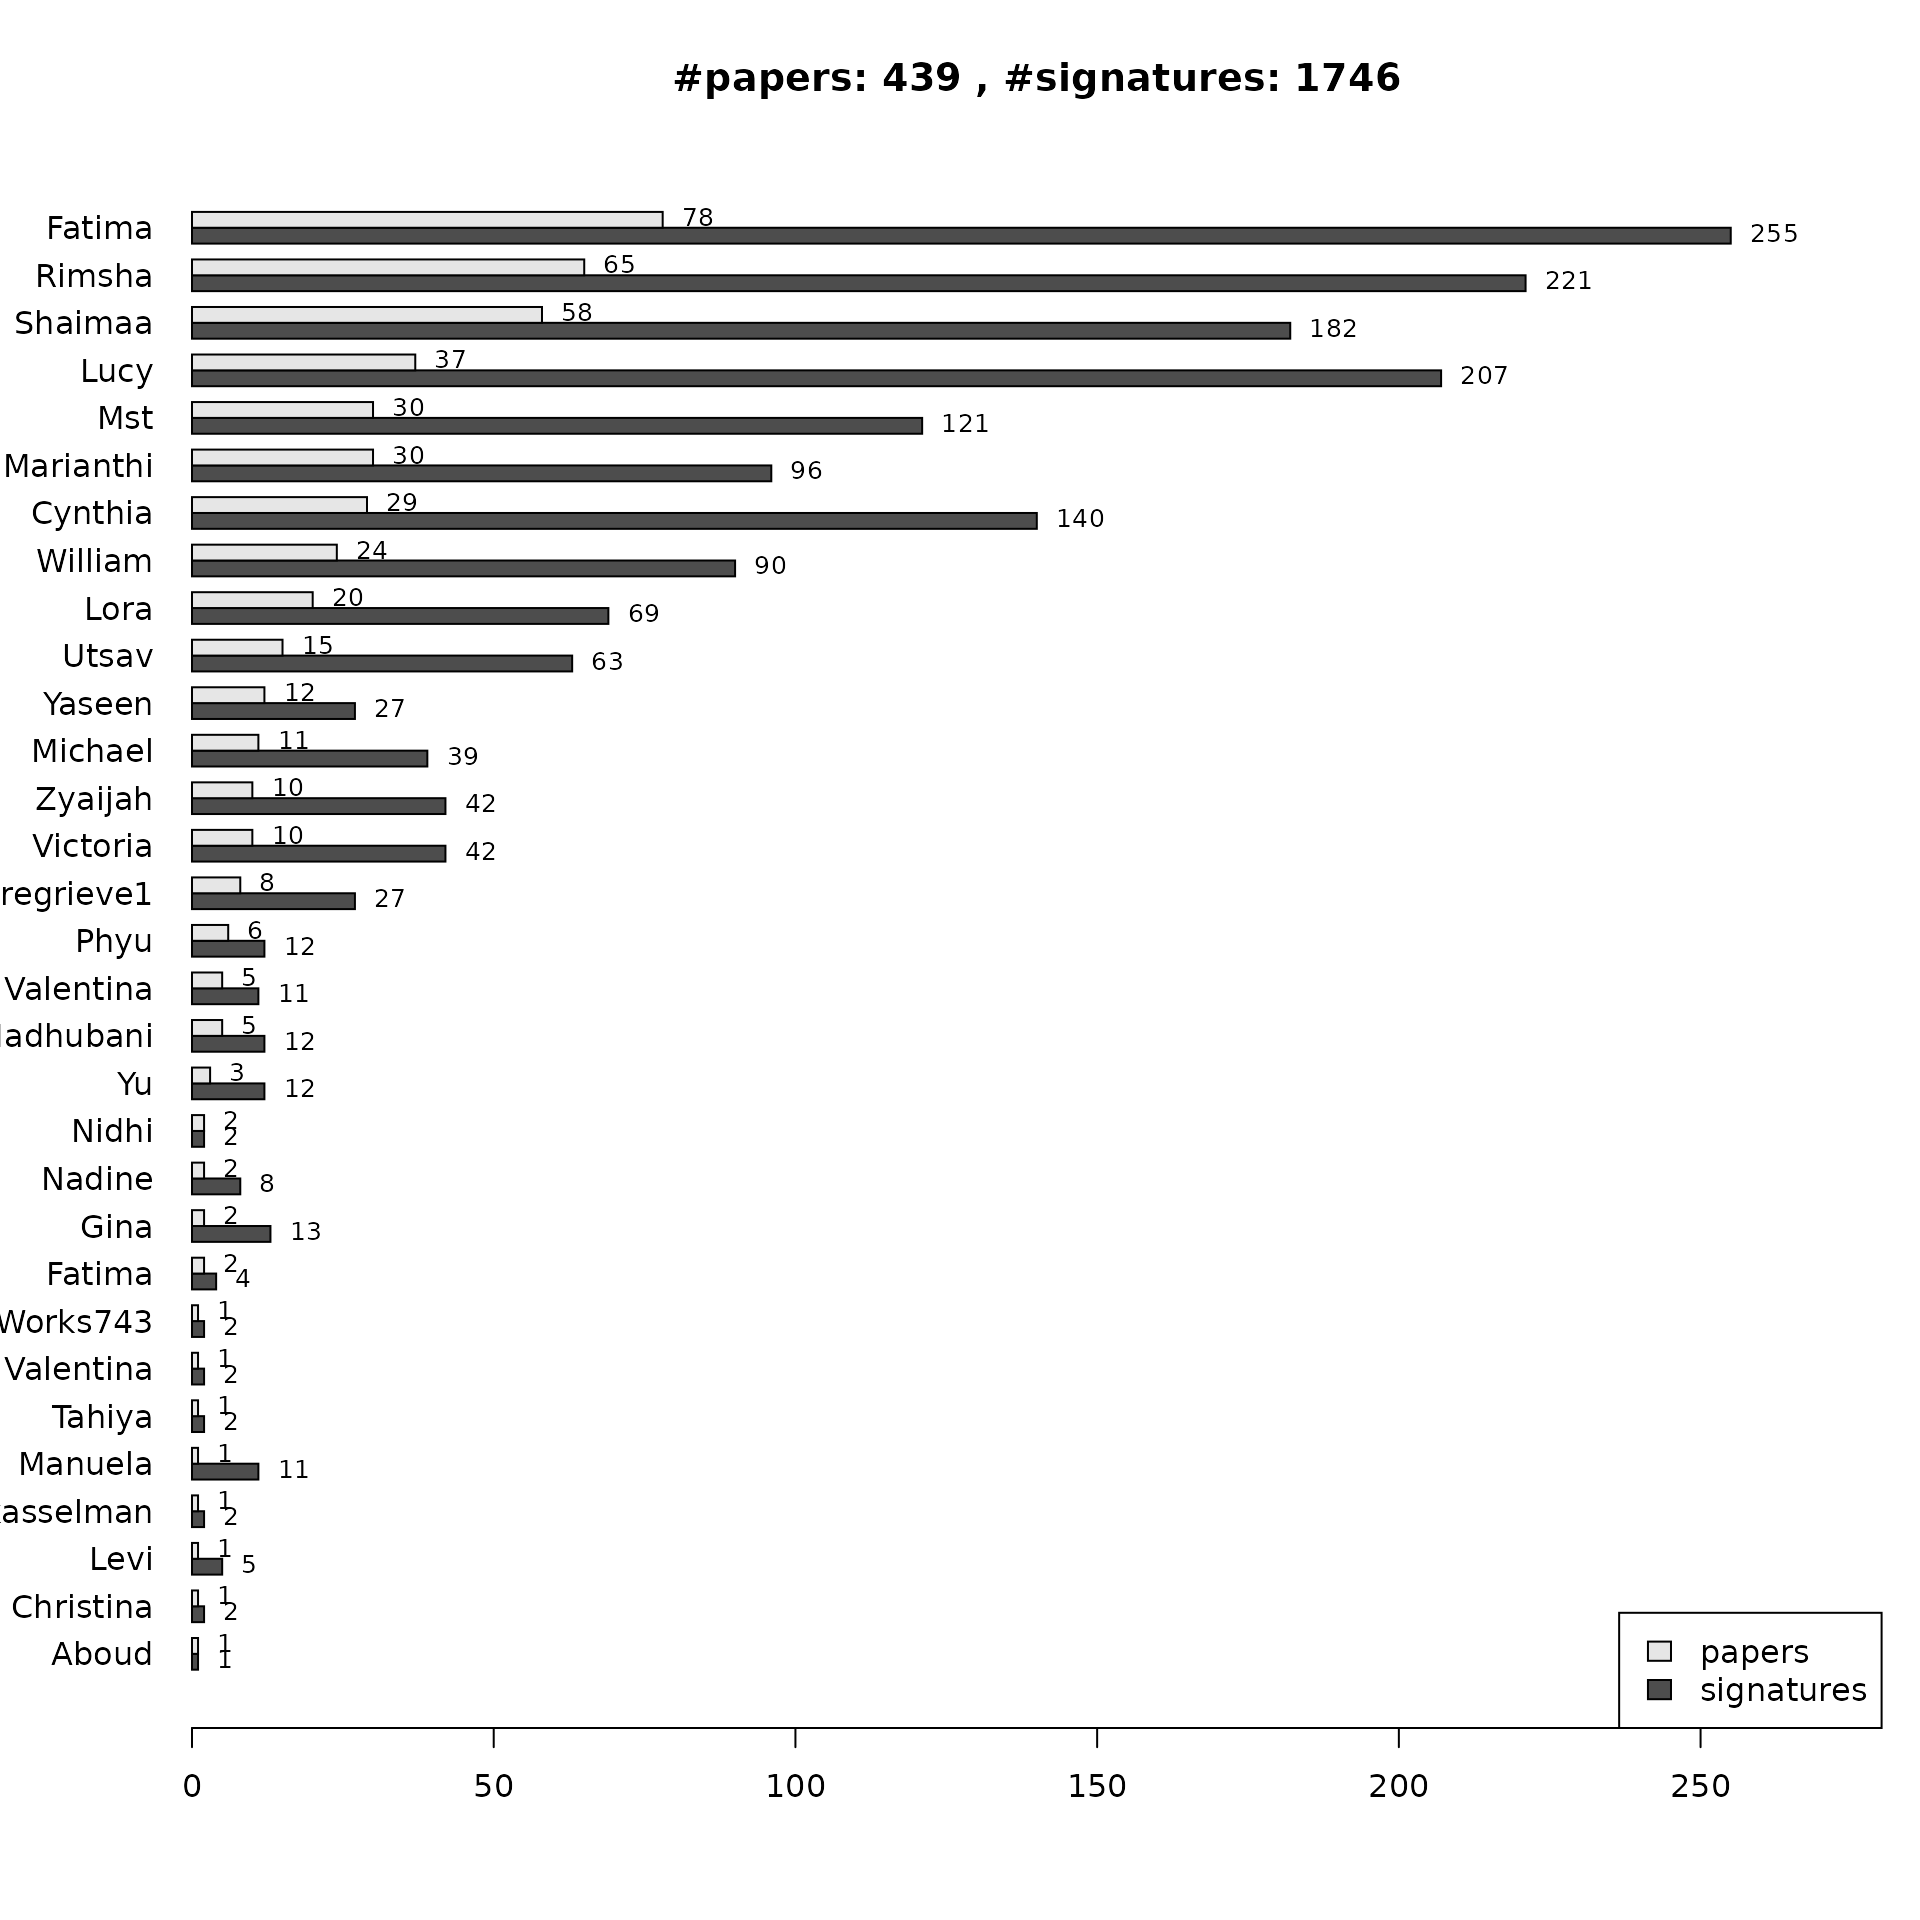
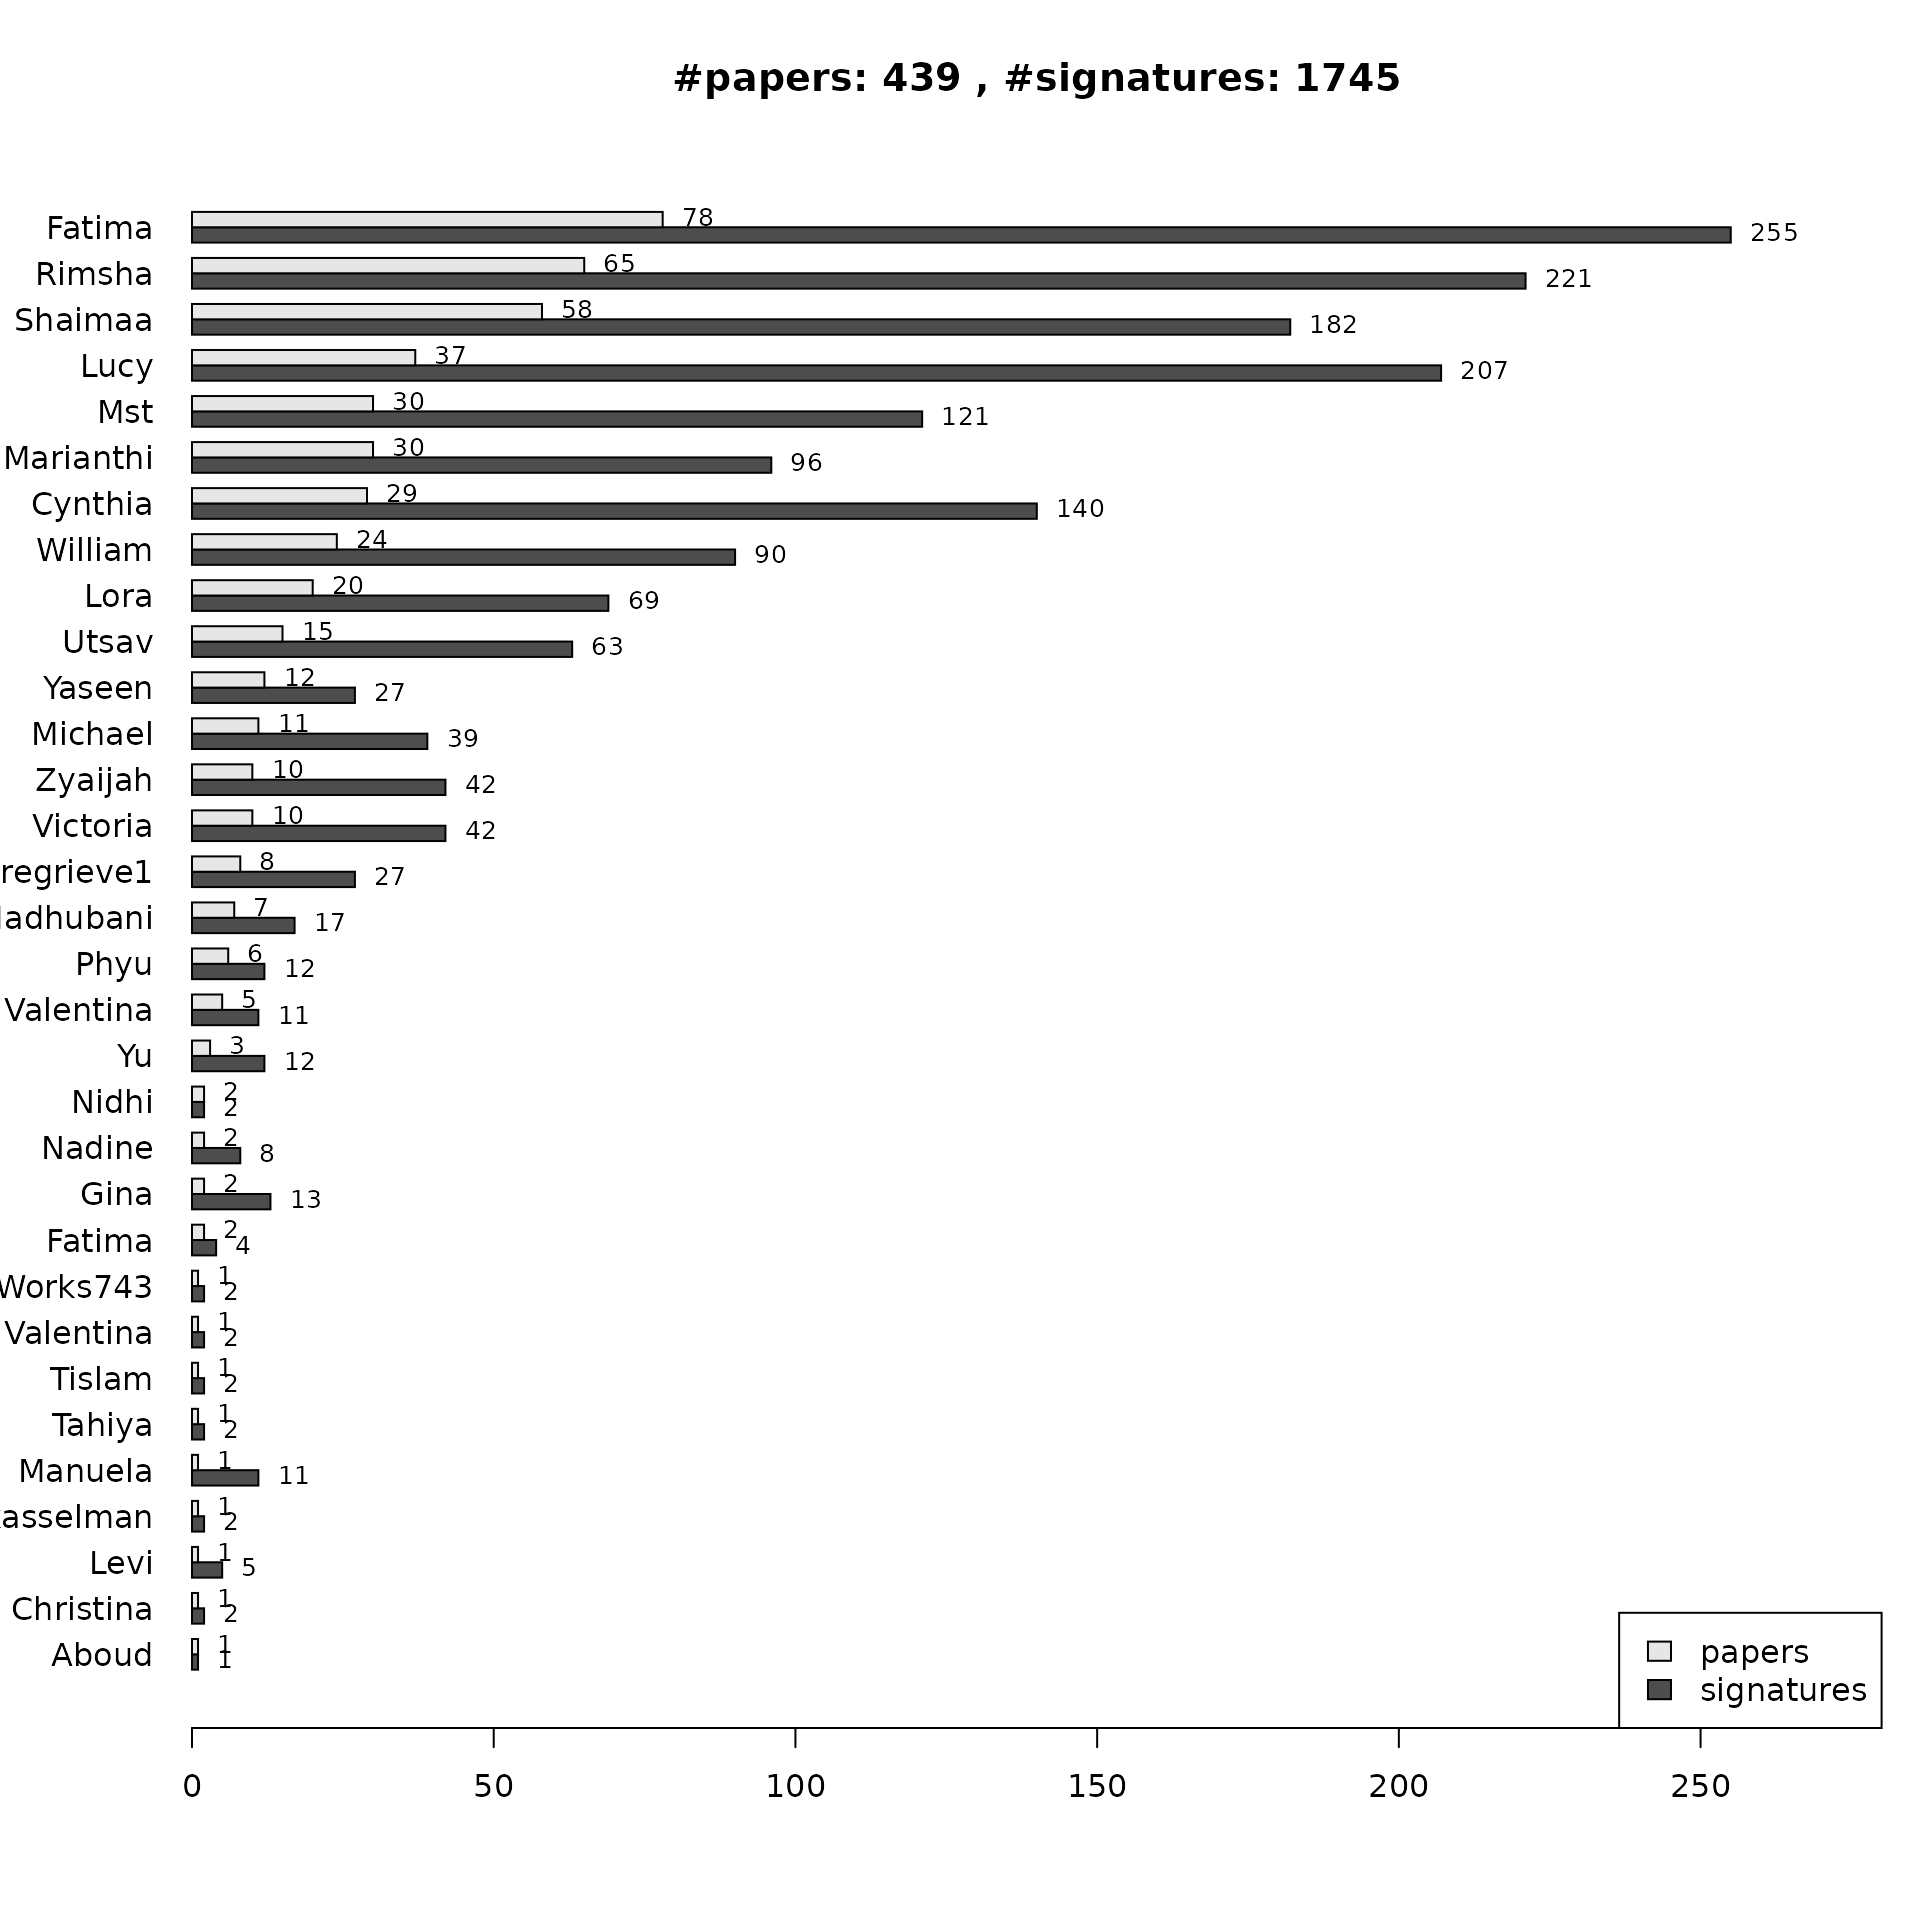
Deploying to gh-pages from  @ 73223ce294398b5d8837817862473400aee4ad90 🚀

Changed region(s): [[0.0, 0.125, 0.8438, 0.8438]]

diff --git a/articles/BugSigDBStats.html b/articles/BugSigDBStats.html
@@ -85,7 +85,7 @@
 <p>Get bulk export from bugsigdb.org:</p>
 <div class="sourceCode" id="cb2"><pre class="downlit">
 <span class="va">full.dat</span> <span class="op">&lt;-</span> <span class="fu">bugsigdbr</span><span class="fu">::</span><span class="fu"><a href="https://rdrr.io/pkg/bugsigdbr/man/importBugSigDB.html">importBugSigDB</a></span><span class="op">(</span><span class="op">)</span></pre></div>
-<pre><code>## using temporary cache /tmp/RtmpfrkwT5/BiocFileCache</code></pre>
+<pre><code>## using temporary cache /tmp/Rtmp4ecMA1/BiocFileCache</code></pre>
 <pre><code>## 
 ## ── Column specification ────────────────────────────────────────────────────────
 ## cols(
@@ -196,7 +196,7 @@
 <span class="co"># more realistic estimation of number of signatures curated</span>
 <span class="va">dat</span> <span class="op">&lt;-</span> <span class="fu"><a href="../reference/stripEmptySignatures.html">stripEmptySignatures</a></span><span class="op">(</span><span class="va">full.dat</span><span class="op">)</span>
 <span class="fu"><a href="https://rdrr.io/r/base/nrow.html">nrow</a></span><span class="op">(</span><span class="va">dat</span><span class="op">)</span></pre></div>
-<pre><code>## [1] 1746</code></pre>
+<pre><code>## [1] 1745</code></pre>
 <p>Papers containing only empty UP and DOWN signatures (under curation?):</p>
 <div class="sourceCode" id="cb20"><pre class="downlit">
 <span class="fu"><a href="https://rdrr.io/r/base/sets.html">setdiff</a></span><span class="op">(</span><span class="va">pmids</span>, <span class="fu"><a href="https://rdrr.io/r/base/unique.html">unique</a></span><span class="op">(</span><span class="va">dat</span><span class="op">[</span>,<span class="st">"PMID"</span><span class="op">]</span><span class="op">)</span><span class="op">)</span></pre></div>
@@ -228,13 +228,15 @@
 ##                      Fatima,Yu Wang                       Lorakasselman 
 ##                                   6                                   2 
 ##               Lwaldron,WikiWorks743                       Madhubani Dey 
-##                                   1                                  12 
+##                                   1                                  17 
 ##                             Manuela                 Rimsha,WikiWorks743 
 ##                                  11                                   1 
-##                           Valentina WikiWorks,WikiWorks743,WikiWorks753 
-##                                   2                                   1 
-##                        WikiWorks743           WikiWorks743,WikiWorks753 
-##                                1610                                   1</code></pre>
+##                              Tislam                           Valentina 
+##                                   2                                   2 
+## WikiWorks,WikiWorks743,WikiWorks753                        WikiWorks743 
+##                                   1                                1610 
+##           WikiWorks743,WikiWorks753 
+##                                   1</code></pre>
 </div>
   </div>
 
